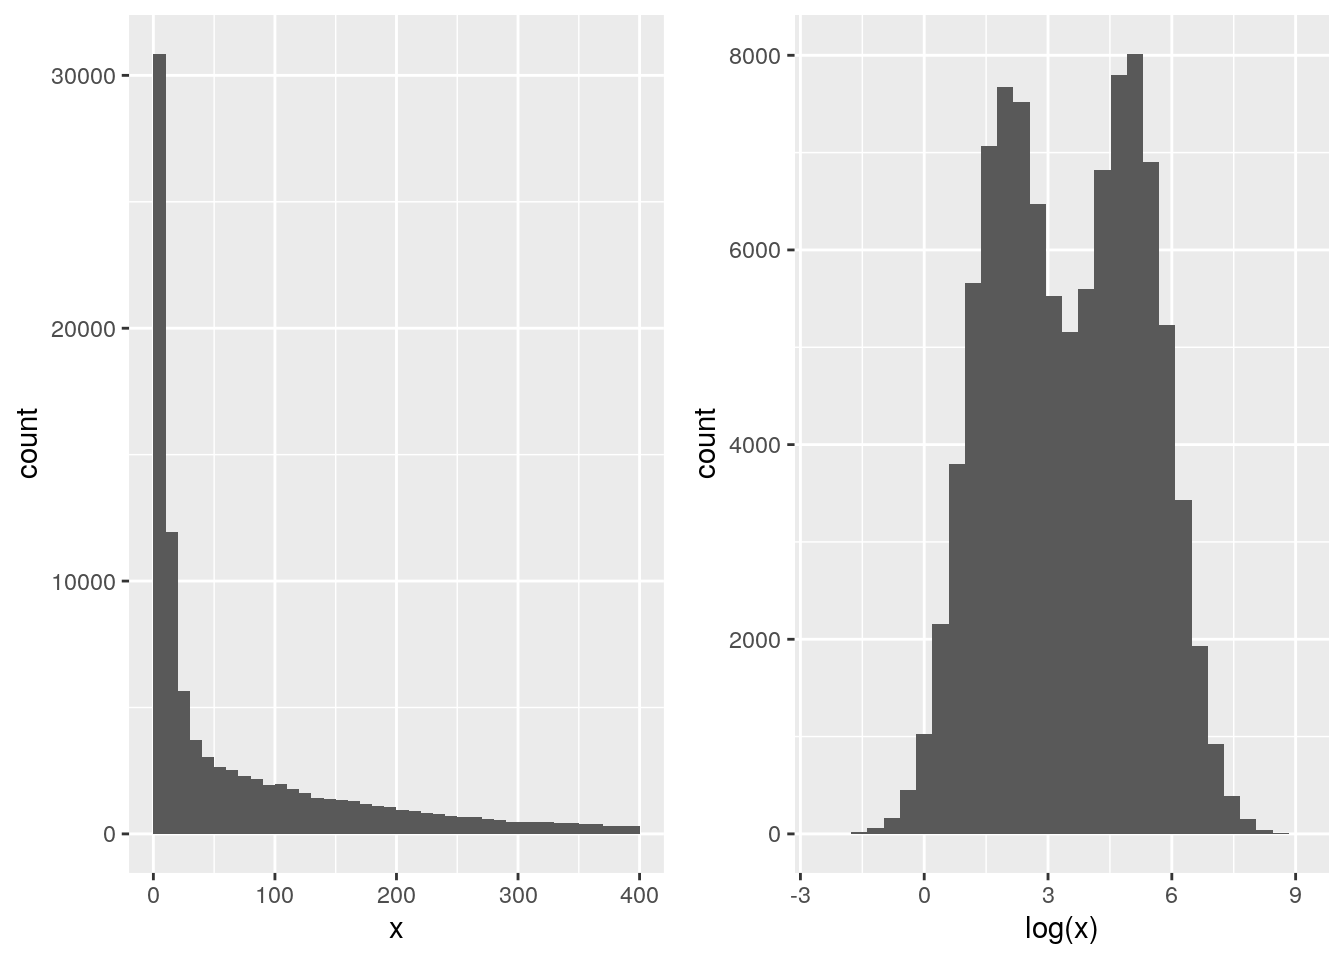
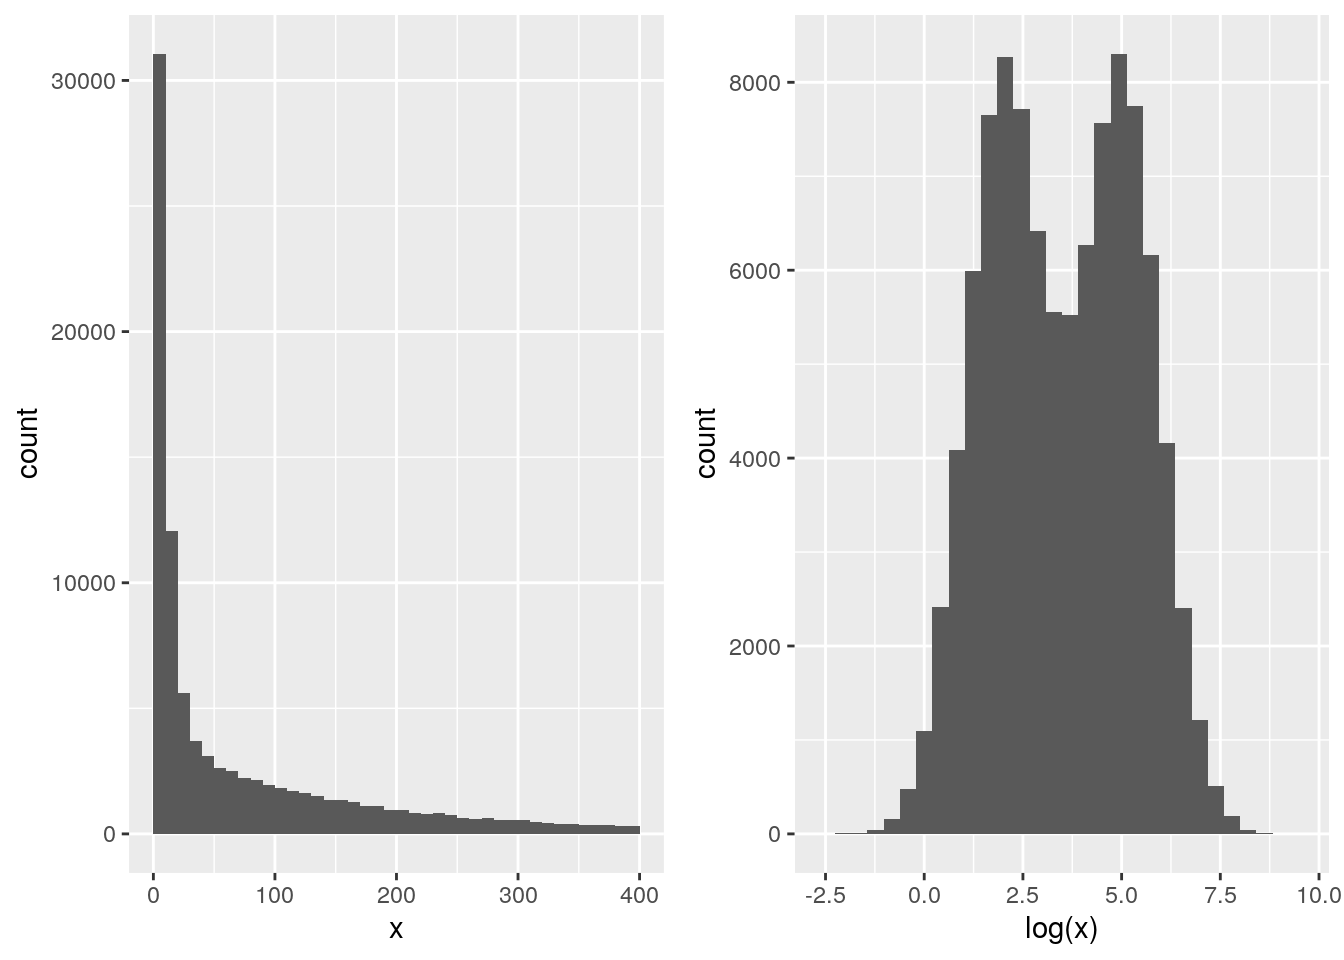
add dimred suppl ex

diff --git a/docs/sec-dimred.html b/docs/sec-dimred.html
@@ -858,6 +858,28 @@ Figure 9.18: Biplot of the <code>hyperLOPIT2015</code> data showing the sub-cell
 <div id="additional-exercises-7" class="section level2">
 <h2>
 <span class="header-section-number">9.8</span> Additional exercises</h2>
+<div class="question">
+<p class="question-begin">
+► Question
+</p>
+<div class="question-body">
+<p>Load the <code>tdata1</code> dataset from the <code>rWSBIM1207</code> package and run a PCA analysis on the samples. Interpret the results, knowing that these data are random.</p>
+<p class="question-end">
+<span class="fa fa-square-o solution-icon"></span>
+</p>
+</div>
+</div>
+<div class="question">
+<p class="question-begin">
+► Question
+</p>
+<div class="question-body">
+<p>Using the function <code>kem2.tsv</code> from the <code>rWSBIM1207</code> package, import the RNA-seq data and perform a PCA analysis on the samples.</p>
+<p class="question-end">
+<span class="fa fa-square-o solution-icon"></span>
+</p>
+</div>
+</div>
 
 </div>
 </div></body></html>

diff --git a/docs/sec-vis.html b/docs/sec-vis.html
@@ -720,7 +720,7 @@ p1 &lt;-<span class="st">  </span><span class="kw">ggplot</span>(sim, <span clas
 p2 &lt;-<span class="st">  </span><span class="kw">ggplot</span>(sim, <span class="kw">aes</span>(<span class="kw">log</span>(x))) <span class="op">+</span>
 <span class="st">    </span><span class="kw">geom_histogram</span>(<span class="dt">bins =</span> <span class="dv">30</span>)
 p1 <span class="op">+</span><span class="st"> </span>p2</code></pre></div>
-<pre><code>## Warning: Removed 7985 rows containing non-finite values (stat_bin).</code></pre>
+<pre><code>## Warning: Removed 8036 rows containing non-finite values (stat_bin).</code></pre>
 <div class="figure">
 <span id="fig:sim"></span>
 <p class="caption marginnote shownote">
